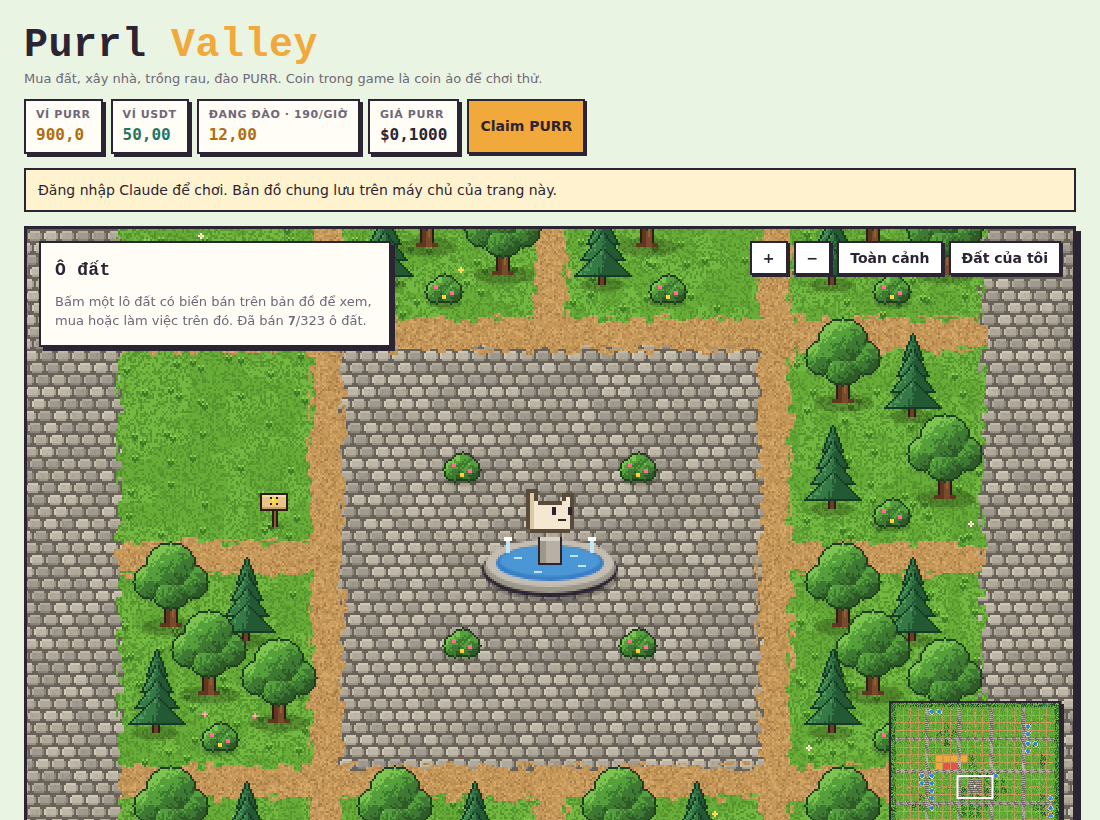
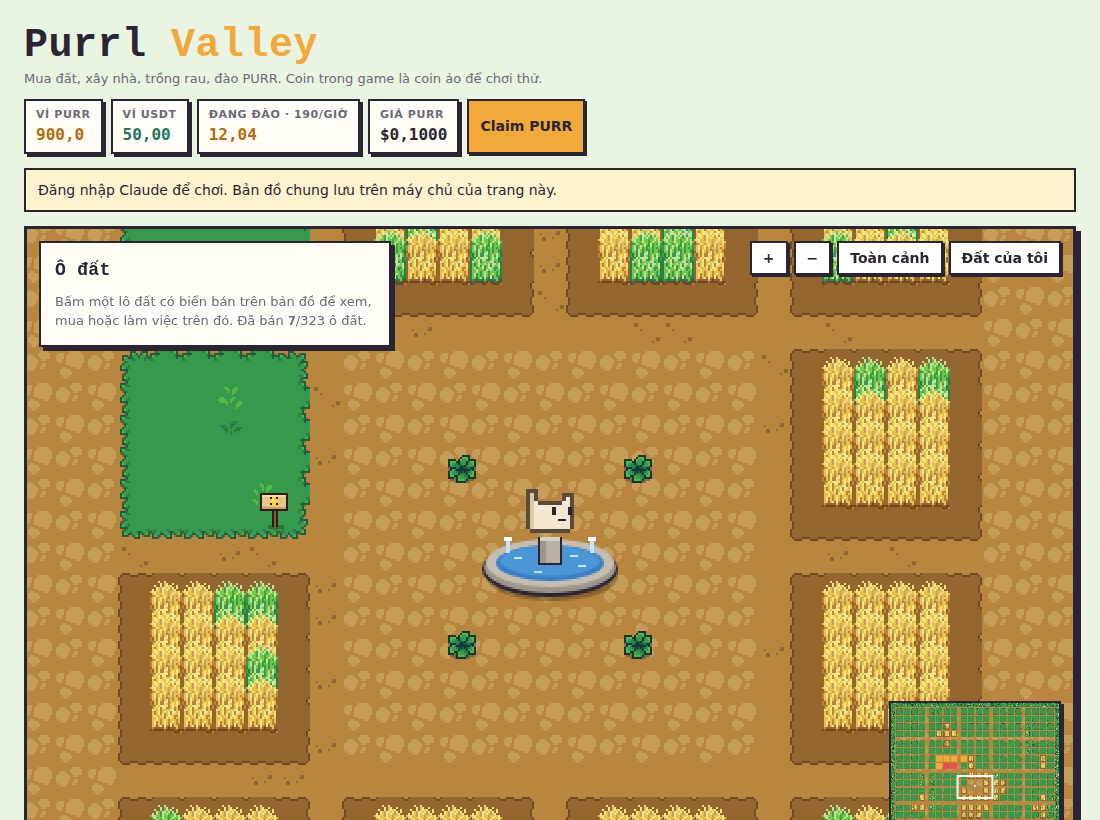
Purrl Valley: use the Pixel Lands - Farm demo art for terrain, fences and crops
Claude-Session: https://claude.ai/code/session_01TUebjeuij8Ma89MtCkRqRD

diff --git a/game/purrl-valley.html b/game/purrl-valley.html
@@ -71,6 +71,8 @@ button:focus-visible, input:focus-visible { outline: 3px solid #3d6fff; outline-
 input[type=number] { font: 500 15px var(--mono); width: 100%; min-width: 0; padding: 7px 9px; border: 2px solid var(--ink); background: #fff; color: var(--ink); }
 .shop { display: grid; grid-template-columns: 1fr auto auto; gap: 6px 8px; align-items: center; font-size: 14px; }
 .shop .p { font-family: var(--mono); color: #b06d0e; }
+.ico { image-rendering: pixelated; width: 24px; height: 24px; vertical-align: -7px; margin-right: 6px; }
+.credit { font-size: 12px; color: var(--muted); margin: 0; }
 .bar { height: 10px; border: 2px solid var(--ink); background: #fff; }
 .bar i { display: block; height: 100%; background: var(--grass); }
 .note { font-size: 13px; color: var(--muted); margin: 0; }
@@ -120,6 +122,7 @@ svg.spark { width: 100%; height: 54px; display: block; }
           <li>PURR làm ra nằm ở mục Đang đào. Cứ 10 phút được claim một lần, phí claim 5%.</li>
           <li>Bán PURR lấy USDT ở chợ, hoặc mua thêm PURR. Giá chạy theo cung cầu của mọi người chơi.</li>
         </ol>
+        <p class="credit">Đồ hoạ nông trại: <a href="https://trislin.itch.io/pixel-lands-farm" target="_blank" rel="noopener">Pixel Lands - Farm</a> của Trislin.</p>
       </section>
     </aside>
   </div>
@@ -135,16 +138,20 @@ const CLAIM_CD = 10 * 60 * 1000, CLAIM_FEE = 0.05;
 const POOL0 = { purr: 100000, usdt: 10000 };         // exchange pool opening reserves, price 0.1
 const SWAP_FEE = 0.003;
 const ITEMS = {
-  wood:    { name: 'Gỗ', price: 8 },
-  stone:   { name: 'Đá', price: 12 },
-  carrot:  { name: 'Hạt cà rốt', price: 10 },
-  tomato:  { name: 'Hạt cà chua', price: 25 },
-  pumpkin: { name: 'Hạt bí ngô', price: 60 },
+  wood:    { name: 'Gỗ', price: 8, icon: [4, 0] },
+  stone:   { name: 'Đá', price: 12, icon: [4, 1] },
+  wheat:   { name: 'Hạt lúa mì', price: 6, icon: [0, 6] },
+  turnip:  { name: 'Hạt củ cải', price: 10, icon: [8, 3] },
+  garlic:  { name: 'Hạt tỏi', price: 18, icon: [8, 7] },
+  corn:    { name: 'Hạt ngô', price: 30, icon: [8, 1] },
+  pumpkin: { name: 'Hạt bí ngô', price: 60, icon: [8, 5] },
 };
-const CROPS = {
-  carrot:  { name: 'Cà rốt',  grow: 2 * 60e3,  yield: 16 },
-  tomato:  { name: 'Cà chua', grow: 5 * 60e3,  yield: 42 },
-  pumpkin: { name: 'Bí ngô',  grow: 15 * 60e3, yield: 105 },
+const CROPS = {   // stages: [col, bottom row, height in tiles] on the objects sheet
+  wheat:   { name: 'Lúa mì', grow: 1 * 60e3,  yield: 9,   icon: [0, 7],  stages: [[1, 7, 1], [2, 7, 1], [3, 7, 1], [5, 7, 2], [7, 7, 2]] },
+  turnip:  { name: 'Củ cải', grow: 2 * 60e3,  yield: 16,  icon: [9, 3],  stages: [[10, 3, 1], [11, 3, 1], [12, 3, 1], [13, 3, 1], [14, 3, 2]] },
+  garlic:  { name: 'Tỏi',    grow: 4 * 60e3,  yield: 30,  icon: [9, 7],  stages: [[10, 7, 1], [11, 7, 1], [12, 7, 1], [13, 7, 1], [14, 7, 2]] },
+  corn:    { name: 'Ngô',    grow: 8 * 60e3,  yield: 52,  icon: [9, 1],  stages: [[10, 1, 1], [11, 1, 1], [12, 1, 1], [14, 1, 2], [15, 1, 2]] },
+  pumpkin: { name: 'Bí ngô', grow: 15 * 60e3, yield: 105, icon: [9, 5],  stages: [[10, 5, 1], [11, 5, 1], [12, 5, 1], [14, 5, 2], [15, 5, 2]] },
 };
 const HOUSE = [null,
   { name: 'Nhà gỗ',   rate: 30,  cost: { wood: 10, stone: 8 } },
@@ -184,7 +191,7 @@ function vnoise(x, y, s, seed) {
   const top = a + (b - a) * sm(fx), bot = c + (d - c) * sm(fx);
   return top + (bot - top) * sm(fy);
 }
-// lot kinds: 0 lawn (for sale), 1 pond, 2 grove, 4 town square
+// lot kinds: 0 lawn (for sale), 1 wild meadow, 2 shared wheat field, 4 town square
 const PK = new Uint8Array(N * N);
 const ter = (i, j) => (i < 0 || j < 0 || i >= N || j >= N ? 2 : PK[j * N + i]);
 const PLAZA = [N / 2 - 1, N / 2];
@@ -204,88 +211,54 @@ function lotOfPx(x, y) {
   const i = f(x), j = f(y); return i >= 0 && j >= 0 ? key(i, j) : null;
 }
 
-// ---- ground tile map: 0 grass, 1 path, 2 cobble, 3 water, 4 sand ----
+// ---- art: "Pixel Lands - Farm" demo by Trislin (trislin.itch.io/pixel-lands-farm) ----
+const SHEET = { ter: new Image(), obj: new Image() };
[2 lines of base64/hex data omitted]
+const sheetsReady = Promise.all(Object.values(SHEET).map((im) => im.decode ? im.decode() : new Promise((ok) => (im.onload = ok))));
+function tile(g, sheet, c, r, x, y, h = 1) { g.drawImage(SHEET[sheet], c * 16, (r - h + 1) * 16, 16, 16 * h, Math.round(x), Math.round(y - (h - 1) * 16), 16, 16 * h); }
+// ground kinds per tile: 0 margin grass, 1 dirt path, 2 stone road, 3 lot
 const GT = new Uint8Array(WT * WT);
 (function () {
   const isMainRoad = (t) => { for (let b = 1; b < N / 4; b++) { const s = lotT0(b * 4) - 3; if (t >= s && t < s + 3) return true; } return false; };
   for (let ty = 0; ty < WT; ty++) for (let tx = 0; tx < WT; tx++) {
     let g = 0;
-    const inside = tx >= M && ty >= M && tx < WT - M && ty < WT - M;
-    if (inside) {
+    if (tx >= M - 1 && ty >= M - 1 && tx <= WT - M && ty <= WT - M) {
+      g = 1;
       if (isMainRoad(tx) || isMainRoad(ty)) g = 2;
-      else {
-        let li = -1, lj = -1;
-        for (let i = 0; i < N; i++) { const a = lotT0(i); if (tx >= a && tx < a + LT) li = i; if (ty >= a && ty < a + LT) lj = i; }
-        if (li < 0 || lj < 0) g = 1;
-      }
+      else { let li = -1, lj = -1; for (let i = 0; i < N; i++) { const a = lotT0(i); if (tx >= a && tx < a + LT) li = i; if (ty >= a && ty < a + LT) lj = i; } if (li >= 0 && lj >= 0) g = 3; }
     }
     GT[ty * WT + tx] = g;
   }
-  // town square paving covers its four lots and the paths between them
   const a = lotT0(PLAZA[0]), b = lotT0(PLAZA[1]) + LT;
   for (let ty = a; ty < b; ty++) for (let tx = a; tx < b; tx++) GT[ty * WT + tx] = 2;
 })();
 const gt = (tx, ty) => (tx < 0 || ty < 0 || tx >= WT || ty >= WT ? 0 : GT[ty * WT + tx]);
-
-const PAL = {
-  grass: [[92, 158, 49], [104, 173, 56], [115, 185, 65], [84, 146, 45]],
-  path: [[199, 154, 91], [185, 140, 80], [212, 169, 106], [168, 125, 71]],
-  cobble: [[176, 168, 152], [190, 182, 166], [160, 154, 142]], mortar: [104, 98, 88],
-  water: [[58, 127, 196], [75, 151, 214], [111, 182, 232]], foam: [191, 230, 251],
-  sand: [[227, 200, 138], [216, 185, 119]],
-};
 const world = document.createElement('canvas'); world.width = WPX; world.height = WPX;
 const wg = world.getContext('2d');
-function pondAt(px, py) {           // distance (in tiles) from a pond lot's centre, or 99
-  const k = lotOfPx(px, py); if (!k) return 99;
-  const [i, j] = k.split('_').map(Number); if (ter(i, j) !== 1) return 99;
-  const [x0, y0] = lotPx(i, j), cx = x0 + LPX / 2, cy = y0 + LPX / 2;
-  const ang = Math.atan2(py - cy, px - cx), wob = 1 + .12 * Math.sin(ang * 3 + i) + .08 * Math.sin(ang * 5 + j);
-  return Math.hypot(px - cx, py - cy) / TS / wob;
+const GRASS = () => [13, 0];
+function grassTile(tx, ty) { const r = hash(tx, ty, 7); return r < .1 ? [12, 0] : r < .17 ? [12, 1] : r < .23 ? [13, 1] : r < .3 ? [12, 2] : [13, 0]; }
+// a 6×6 block of the grass island (lot) or the tilled-soil island (field), edge pieces by position
+function islandTile(lx, ly, field) {
+  const ox = 8, oy = field ? 4 : 0, L = lx === 0, R = lx === LT - 1, T = ly === 0, B = ly === LT - 1;
+  if (T && L) return [ox, oy]; if (T && R) return [ox + 3, oy]; if (B && L) return [ox, oy + 3]; if (B && R) return [ox + 3, oy + 3];
+  if (T) return [ox + 1, oy]; if (B) return [ox + 1, oy + 3]; if (L) return [ox, oy + 1]; if (R) return [ox + 3, oy + 1];
+  return field ? [9, 5] : null;
 }
 function paintGround() {
-  const img = wg.createImageData(WPX, WPX), d = img.data;
-  for (let py = 0; py < WPX; py++) for (let px = 0; px < WPX; px++) {
-    const jx = Math.floor((hash(px >> 2, py >> 2, 5) - .5) * 5), jy = Math.floor((hash(py >> 2, px >> 2, 6) - .5) * 5);
-    let t = gt(Math.floor((px + jx) / TS), Math.floor((py + jy) / TS)), c;
-    const r = hash(px, py, 1);
-    if (t === 0) {
-      const pd = pondAt(px, py);
-      if (pd < 2.35) { const deep = pd < 1.4 ? 0 : pd < 2 ? 1 : 2; c = PAL.water[deep]; if (pd > 2.15 || (r < .02 && pd < 2)) c = PAL.foam; }
-      else if (pd < 2.7) c = PAL.sand[r < .5 ? 0 : 1];
-      else { const n = vnoise(px, py, 9, 2); c = PAL.grass[r < .55 ? (n > .5 ? 2 : 1) : r < .8 ? 0 : 3]; }
-    } else if (t === 1) c = PAL.path[r < .5 ? 0 : r < .75 ? 1 : r < .92 ? 2 : 3];
-    else {
-      // rounded cobbles: offset rows, corners knocked off, lit from the top-left
-      const row = Math.floor(py / 6), off = (row * 5) % 8, col = Math.floor((px + off) / 8), sx = (px + off) % 8, sy = py % 6;
-      const corner = (sx === 1 || sx === 7) && (sy === 1 || sy === 5);
-      const base = PAL.cobble[Math.floor(hash(col, row, 3) * 3)];
-      if (sx === 0 || sy === 0 || corner) c = PAL.mortar;
-      else if (sy === 1 || sx === 1) c = [base[0] + 18, base[1] + 18, base[2] + 16];
-      else if (sy === 5 || sx === 7) c = [base[0] - 22, base[1] - 22, base[2] - 20];
-      else c = r < .12 ? [base[0] - 8, base[1] - 8, base[2] - 8] : base;
-    }
-    const o = (py * WPX + px) * 4; d[o] = c[0]; d[o + 1] = c[1]; d[o + 2] = c[2]; d[o + 3] = 255;
-  }
-  wg.putImageData(img, 0, 0);
-  // grass tufts and wildflowers
   for (let ty = 0; ty < WT; ty++) for (let tx = 0; tx < WT; tx++) {
-    if (gt(tx, ty) !== 0) continue;
-    for (let n = 0; n < 2; n++) {
-      if (hash(tx, ty, 30 + n) < .45) continue;
-      const x = tx * TS + Math.floor(hash(tx, ty, 40 + n) * 13) + 1, y = ty * TS + Math.floor(hash(tx, ty, 50 + n) * 12) + 3;
-      if (pondAt(x, y) < 2.9) continue;
-      wg.fillStyle = '#3f7a26'; wg.fillRect(x, y, 1, 2); wg.fillRect(x + 2, y, 1, 2); wg.fillRect(x + 1, y + 1, 1, 2);
-      wg.fillStyle = '#8fd156'; wg.fillRect(x, y - 1, 1, 1); wg.fillRect(x + 2, y - 1, 1, 1);
-    }
-    if (hash(tx, ty, 60) < .06) {
-      const x = tx * TS + 4 + Math.floor(hash(tx, ty, 61) * 8), y = ty * TS + 4 + Math.floor(hash(tx, ty, 62) * 8), col = ['#ffffff', '#ffe066', '#ff8fc8', '#b8a6ff'][Math.floor(hash(tx, ty, 63) * 4)];
-      if (pondAt(x, y) < 2.9) continue;
-      wg.fillStyle = col; wg.fillRect(x - 1, y, 3, 1); wg.fillRect(x, y - 1, 1, 3); wg.fillStyle = '#ffd23f'; wg.fillRect(x, y, 1, 1);
-    }
+    const x = tx * TS, y = ty * TS, k = gt(tx, ty);
+    if (k === 0) { const [c, r] = grassTile(tx, ty); tile(wg, 'ter', c, r, x, y); continue; }
+    if (k === 1) { const h = hash(tx, ty, 3); tile(wg, 'ter', h < .12 ? 12 : h < .2 ? 13 : 13, h < .2 ? 4 : 2, x, y); continue; }
+    if (k === 2) { tile(wg, 'ter', 13, 2, x, y); tile(wg, 'ter', (tx + ty) % 2 ? 12 : 13, 3, x, y); continue; }
+    // lot tile: find which lot and where inside it
+    const key0 = lotOfPx(x + 1, y + 1); if (!key0) continue;
+    const [i, j] = key0.split('_').map(Number), lx = tx - lotT0(i), ly = ty - lotT0(j), field = ter(i, j) === 2;
+    tile(wg, 'ter', 13, 2, x, y);
+    const e = islandTile(lx, ly, field);
+    if (e) tile(wg, 'ter', e[0], e[1], x, y); else { const [c, r] = grassTile(tx, ty); tile(wg, 'ter', c, r, x, y); }
   }
 }
-
 // ---- sprites ----
 function sprite(w, h, fn) {
   const c = document.createElement('canvas'); c.width = w; c.height = h; const g = c.getContext('2d');
@@ -307,44 +280,12 @@ function canopy(g, R, circles, cols, outline, seed) {
 }
 const SPR = {};
 function makeSprites() {
-  SPR.oak = sprite(40, 50, (g, R) => {
-    g.fillStyle = 'rgba(20,40,10,.28)'; g.beginPath(); g.ellipse(21, 45, 15, 4.5, 0, 0, 7); g.fill();
-    R(17, 30, 7, 15, '#2b1d14'); R(18, 30, 5, 15, '#7a4a2a'); R(18, 30, 2, 15, '#5e381f'); R(21, 34, 1, 6, '#94603a'); R(15, 43, 3, 2, '#5e381f'); R(23, 43, 3, 2, '#5e381f');
-    canopy(g, R, [[20, 15, 13], [10, 22, 9], [30, 22, 9], [20, 26, 10]], ['#2d5a27', '#3e7a31', '#56a03c', '#7cc44f'], '#1e3d1c', 7);
-  });
-  SPR.pine = sprite(30, 48, (g, R) => {
-    g.fillStyle = 'rgba(20,40,10,.28)'; g.beginPath(); g.ellipse(15, 44, 11, 3.5, 0, 0, 7); g.fill();
-    R(13, 36, 4, 8, '#2b1d14'); R(14, 36, 2, 8, '#6b4026');
-    for (let tier = 0; tier < 4; tier++) {
-      const top = 2 + tier * 8, hgt = 14, half = 5 + tier * 3;
-      for (let y = 0; y < hgt; y++) { const w = Math.round(half * (y + 1) / hgt); for (let x = -w; x <= w; x++) { const edge = x === -w || x === w || y === hgt - 1; const l = -x / (w + 1) * .7 - y / hgt * .4 + (hash(x, y + tier * 20, 9) - .5) * .4; R(15 + x, top + y, edge ? '#173a24' : l > .25 ? '#4f9a5a' : l > -.2 ? '#357a44' : '#245a33'); } }
-    }
-  });
-  SPR.bush = sprite(22, 18, (g, R) => {
-    g.fillStyle = 'rgba(20,40,10,.25)'; g.beginPath(); g.ellipse(11, 15, 9, 2.5, 0, 0, 7); g.fill();
-    canopy(g, R, [[7, 9, 6], [14, 9, 6], [11, 6, 6]], ['#2d5a27', '#3e7a31', '#56a03c', '#7cc44f'], '#1e3d1c', 3);
-    R(6, 6, 2, 2, '#ff6f8f'); R(14, 9, 2, 2, '#ff6f8f'); R(10, 11, 2, 2, '#ffd23f');
-  });
   SPR.sign = sprite(16, 20, (g, R) => {
     g.fillStyle = 'rgba(0,0,0,.25)'; g.fillRect(5, 18, 8, 2);
     R(7, 8, 3, 11, '#2b1d14'); R(8, 8, 1, 11, '#8a5a32');
     R(1, 2, 14, 9, '#2b1d14'); R(2, 3, 12, 7, '#e6c48a'); R(2, 3, 12, 1, '#f4dcaa'); R(2, 9, 12, 1, '#c9a26b');
     R(6, 4, 4, 4, '#2b1d14'); R(7, 4, 2, 4, '#ffd23f'); R(6, 5, 4, 2, '#ffd23f'); R(7, 5, 1, 1, '#fff2a8');
   });
-  SPR.soil = sprite(16, 16, (g, R) => {
-    R(0, 0, 16, 16, '#6b4426');
-    for (let y = 0; y < 16; y += 4) { R(0, y, 16, 1, '#53331c'); R(0, y + 1, 16, 1, '#7d5230'); }
-    for (let n = 0; n < 6; n++) R(Math.floor(hash(n, 1) * 15), Math.floor(hash(n, 2) * 15), 1, 1, '#8a5e38');
-  });
-  const leaf = (R, x, y, c1, c2) => { R(x, y, 2, 1, c1); R(x + 1, y + 1, 2, 1, c2); };
-  SPR.crop = {
-    seed: sprite(16, 16, (g, R) => { [[4, 6], [10, 9], [6, 12], [11, 4]].forEach(([x, y]) => { R(x, y, 2, 1, '#3a2414'); R(x, y - 1, 2, 1, '#d8b98a'); }); }),
-    sprout: sprite(16, 16, (g, R) => { R(7, 9, 1, 4, '#3f7a26'); leaf(R, 5, 8, '#56a03c', '#3f7a26'); R(8, 7, 2, 1, '#7cc44f'); R(9, 8, 2, 1, '#56a03c'); }),
-    grow: sprite(16, 16, (g, R) => { R(7, 6, 2, 8, '#3f7a26'); R(4, 6, 3, 2, '#56a03c'); R(9, 5, 3, 2, '#7cc44f'); R(3, 9, 4, 2, '#3e7a31'); R(9, 9, 4, 2, '#56a03c'); R(6, 3, 3, 3, '#7cc44f'); R(7, 3, 1, 1, '#a6e07c'); }),
-    carrot: sprite(16, 16, (g, R) => { R(5, 10, 6, 4, '#2b1d14'); R(6, 10, 4, 3, '#ff8a1f'); R(6, 10, 2, 1, '#ffb05a'); R(7, 13, 2, 1, '#d8661a'); R(5, 4, 2, 6, '#3f7a26'); R(9, 4, 2, 6, '#56a03c'); R(7, 2, 2, 8, '#7cc44f'); }),
-    tomato: sprite(16, 16, (g, R) => { R(7, 1, 2, 14, '#8a5a32'); R(4, 4, 8, 7, '#3e7a31'); R(5, 5, 6, 4, '#56a03c'); [[4, 8], [10, 6], [7, 11]].forEach(([x, y]) => { R(x - 1, y - 1, 4, 4, '#7a1424'); R(x, y, 2, 2, '#e8344f'); R(x, y, 1, 1, '#ff9aa8'); }); }),
-    pumpkin: sprite(16, 16, (g, R) => { g.fillStyle = 'rgba(0,0,0,.25)'; g.fillRect(3, 13, 11, 2); R(2, 5, 12, 9, '#6e2e0e'); R(3, 6, 10, 7, '#f28a1f'); R(5, 6, 1, 7, '#d8661a'); R(10, 6, 1, 7, '#d8661a'); R(4, 7, 2, 2, '#ffb05a'); R(7, 3, 2, 3, '#3f7a26'); R(9, 3, 3, 1, '#56a03c'); }),
-  };
   // fountain with the Purrl statue
   SPR.fountain = sprite(72, 64, (g, R) => {
     g.fillStyle = 'rgba(0,0,0,.25)'; g.beginPath(); g.ellipse(37, 50, 33, 12, 0, 0, 7); g.fill();
@@ -408,25 +349,27 @@ function houseSprite(level, wall, roof) {
 const mailCache = {};
 const mailbox = (col) => mailCache[col] || (mailCache[col] = sprite(10, 16, (g, R) => { g.fillStyle = 'rgba(0,0,0,.25)'; g.fillRect(2, 14, 7, 2); R(4, 6, 2, 9, '#5e381f'); R(0, 1, 10, 7, '#2b1d14'); R(1, 2, 8, 5, col); R(1, 2, 8, 1, 'rgba(255,255,255,.4)'); R(8, 0, 1, 4, '#e8344f'); R(8, 0, 2, 2, '#e8344f'); }));
 
-// ---- static scenery: woods around the edge, groves, fountain ----
+// ---- static scenery: bushes and tall grass around the edge, meadows, the shared wheat fields, the square ----
 function paintScenery() {
-  const items = [];
+  const items = [];                                    // [draw(y-sorted), bottom y]
+  const obj = (c, r, x, y, h = 1) => items.push([() => tile(wg, 'obj', c, r, x, y, h), y + 16]);
   for (let ty = 0; ty < WT; ty++) for (let tx = 0; tx < WT; tx++) {
-    const edge = tx < M - 1 || ty < M - 1 || tx >= WT - M + 1 || ty >= WT - M + 1;
-    if (edge && (tx + ty) % 2 === 0 && hash(tx, ty, 70) < .8) items.push([hash(tx, ty, 71) < .4 ? 'pine' : 'oak', tx * TS - 12 + hash(tx, ty, 72) * 8, ty * TS - 30]);
+    if (gt(tx, ty) !== 0) continue;
+    const h = hash(tx, ty, 11), x = tx * TS, y = ty * TS;
+    if (h < .34) obj(h < .17 ? 5 : 6, 0, x, y); else if (h < .44) obj(4, 7, x, y, 2); else if (h < .52) obj(h < .48 ? 2 : 3, 7, x, y); else if (h < .55) obj(4, 1, x, y);
   }
   for (let j = 0; j < N; j++) for (let i = 0; i < N; i++) {
-    const [x0, y0] = lotPx(i, j), k = ter(i, j);
-    if (k === 2) {
-      [[8, 6], [52, 14], [26, 40], [62, 54], [6, 60]].forEach(([a, b], n) => { if (hash(i, j, n) < .85) items.push([n % 3 === 1 ? 'pine' : 'oak', x0 + a + hash(i, n, 3) * 6 - 6, y0 + b - 24]); });
-      items.push(['bush', x0 + 40, y0 + 74]);
-    } else if (k === 1) { items.push(['bush', x0 + 4, y0 + 74]); items.push(['bush', x0 + 70, y0 + 6]); }
+    const k = ter(i, j), tx0 = lotT0(i), ty0 = lotT0(j);
+    if (k === 1) for (let ly = 1; ly < LT - 1; ly++) for (let lx = 1; lx < LT - 1; lx++) {
+      const h = hash(tx0 + lx, ty0 + ly, 13), x = (tx0 + lx) * TS, y = (ty0 + ly) * TS;
+      if (h < .22) obj(h < .11 ? 5 : 6, 0, x, y); else if (h < .42) obj(h < .32 ? 4 : 5, 7, x, y, 2); else if (h < .55) obj(h < .48 ? 2 : 3, 7, x, y); else if (h < .6) obj(4, 1, x, y);
+    }
+    if (k === 2) for (let ly = 1; ly < LT - 1; ly++) for (let lx = 1; lx < LT - 1; lx++) obj(hash(i, j, lx + ly * 7) < .8 ? 7 : 6, 7, (tx0 + lx) * TS, (ty0 + ly) * TS, 2);
   }
   const pc = lotPx(PLAZA[0], PLAZA[0])[0] + LPX + TS / 2;
-  items.push(['fountain', pc - 36, pc - 40]);
-  [[-44, -44], [44, -44], [-44, 44], [44, 44]].forEach(([a, b]) => items.push(['bush', pc + a - 11, pc + b - 9]));
-  items.sort((a, b) => a[2] + SPR[a[0]].height - (b[2] + SPR[b[0]].height));
-  for (const [s, x, y] of items) wg.drawImage(SPR[s], Math.round(x), Math.round(y));
+  items.push([() => wg.drawImage(SPR.fountain, pc - 36, pc - 40), pc + 24]);
+  [[-44, -44], [44, -44], [-44, 44], [44, 44]].forEach(([a, b]) => obj(5, 0, pc + a - 8, pc + b - 8));
+  items.sort((a, b) => a[1] - b[1]); items.forEach(([f]) => f());
 }
 
 // ---- camera and frame ----
@@ -445,35 +388,29 @@ function zoomAt(f, sx, sy) { const [a, b] = toWorld(sx, sy); cam.z *= f; clampCa
 let fly = null;
 function flyTo(x, y, z) { fly = { t0: performance.now(), x0: cam.x, y0: cam.y, z0: cam.z, x, y, z: z || cam.z }; }
 function drawFence(g, x0, y0) {
-  const post = (x, y) => { g.fillStyle = 'rgba(0,0,0,.22)'; g.fillRect(x + 1, y + 1, 4, 3); g.fillStyle = '#2b1d14'; g.fillRect(x, y - 9, 4, 11); g.fillStyle = '#a0703c'; g.fillRect(x + 1, y - 8, 2, 9); g.fillStyle = '#c99a5e'; g.fillRect(x + 1, y - 8, 2, 1); };
-  const railH = (xa, xb, y) => { g.fillStyle = '#2b1d14'; g.fillRect(xa, y - 7, xb - xa, 4); g.fillRect(xa, y - 3, xb - xa, 0); g.fillStyle = '#b9844a'; g.fillRect(xa, y - 6, xb - xa, 1); g.fillStyle = '#8a5a32'; g.fillRect(xa, y - 5, xb - xa, 1); };
-  const L = x0 + 1, Rr = x0 + LPX - 5, T = y0 + 9, B = y0 + LPX - 2;
-  railH(L + 2, Rr + 2, T);
-  for (let x = L; x <= Rr; x += TS) post(x, T);
-  for (let y = T + TS; y < B; y += TS) { g.fillStyle = '#2b1d14'; g.fillRect(L + 1, y - 16, 2, 16); g.fillRect(Rr + 1, y - 16, 2, 16); post(L, y); post(Rr, y); }
-  g.fillStyle = '#2b1d14'; g.fillRect(L + 1, B - 16, 2, 16); g.fillRect(Rr + 1, B - 16, 2, 16);
-  const gate0 = x0 + LPX / 2 - 12, gate1 = x0 + LPX / 2 + 12;
-  railH(L + 2, gate0, B); railH(gate1, Rr + 2, B);
-  for (let x = L; x <= Rr; x += TS) if (x + 4 <= gate0 || x >= gate1) post(x, B);
-  post(gate0 - 4, B); post(gate1, B);
+  const R = x0 + (LT - 1) * TS, B = y0 + (LT - 1) * TS;
+  for (let n = 1; n < LT - 1; n++) { tile(g, 'obj', 3, 1, x0, y0 + n * TS); tile(g, 'obj', 3, 1, R, y0 + n * TS); }
+  for (let n = 0; n < LT; n++) tile(g, 'obj', n === 0 ? 0 : n === LT - 1 ? 2 : 1, 0, x0 + n * TS, y0);
+  const gate = [2, 3];                                                                  // opening at the front
+  for (let n = 0; n < LT; n++) if (!gate.includes(n)) tile(g, 'obj', n === 0 || n === 4 ? 0 : n === 1 || n === LT - 1 ? 2 : 1, 3, x0 + n * TS, B);
 }
 function drawLot(g, k, now) {
   const [i, j] = k.split('_').map(Number), [x0, y0] = lotPx(i, j), l = land[k];
   if (!l) { g.drawImage(SPR.sign, x0 + LPX - 26, y0 + LPX - 26); return; }
   const f = farms[l.owner], p = f && f.plots && f.plots[k];
-  // stepping stones from the gate
-  for (let y = y0 + LPX - 30; y < y0 + LPX - 2; y += 9) { g.fillStyle = '#2b1d14'; g.fillRect(x0 + LPX / 2 - 6, y, 12, 6); g.fillStyle = '#b8b0a4'; g.fillRect(x0 + LPX / 2 - 5, y + 1, 10, 4); g.fillStyle = '#d8d2c6'; g.fillRect(x0 + LPX / 2 - 5, y + 1, 10, 1); }
   if (p && p.kind === 'crop') {
-    const c = CROPS[p.crop], t = (now - p.plantedAt) / c.grow, st = t >= 1 ? p.crop : t > .6 ? 'grow' : t > .25 ? 'sprout' : 'seed';
-    g.fillStyle = '#2b1d14'; g.fillRect(x0 + 15, y0 + 15, 66, 50);
-    for (let a = 0; a < 4; a++) for (let b = 0; b < 3; b++) { g.drawImage(SPR.soil, x0 + 16 + a * 16, y0 + 16 + b * 16); g.drawImage(SPR.crop[st], x0 + 16 + a * 16, y0 + 14 + b * 16); }
+    for (let ly = 0; ly < LT; ly++) for (let lx = 0; lx < LT; lx++) { const e = islandTile(lx, ly, true); tile(g, 'ter', 13, 2, x0 + lx * TS, y0 + ly * TS); tile(g, 'ter', e[0], e[1], x0 + lx * TS, y0 + ly * TS); }
+    const c = CROPS[p.crop], t = (now - p.plantedAt) / c.grow, st = c.stages[t >= 1 ? 4 : t > .7 ? 3 : t > .45 ? 2 : t > .2 ? 1 : 0];
+    for (let ly = 1; ly < LT - 1; ly++) for (let lx = 1; lx < LT - 1; lx++) tile(g, 'obj', st[0], st[1], x0 + lx * TS, y0 + ly * TS, st[2]);
+  } else {
+    tile(g, 'obj', 6, 2, x0 + 2 * TS, y0 + 4 * TS); tile(g, 'obj', 7, 2, x0 + 3 * TS, y0 + 4 * TS);       // stepping stones to the gate
   }
   if (p && p.kind === 'house') {
     const s = houseSprite(p.level, WALLS[Math.floor(hash(i, j, 1) * 5)], ROOFC[Math.floor(hash(j, i, 2) * 5)]);
     g.drawImage(s, Math.round(x0 + LPX / 2 - s.width / 2), y0 + LPX - 30 - s.height + 8);
   }
   drawFence(g, x0, y0);
-  g.drawImage(mailbox(l.owner === me ? '#f2a93b' : (colors[l.owner] || '#8a7a9a')), x0 + LPX / 2 + 16, y0 + LPX - 16);
+  g.drawImage(mailbox(l.owner === me ? '#f2a93b' : (colors[l.owner] || '#8a7a9a')), x0 + LPX / 2 + 18, y0 + LPX - 18);
 }
 function lotRectScreen(k) { const [i, j] = k.split('_').map(Number), [x0, y0] = lotPx(i, j); return [(x0 - cam.x) * cam.z + vw / 2, (y0 - cam.y) * cam.z + vh / 2, LPX * cam.z]; }
 function outline(k, col, w) { const [x, y, s] = lotRectScreen(k); cx.strokeStyle = col; cx.lineWidth = w; cx.strokeRect(x + w / 2, y + w / 2, s - w, s - w); }
@@ -566,7 +503,8 @@ $('zhome').onclick = () => {
 function redrawLand() { drawMini(); }
 function redrawCrops() {}
 function draw() { drawMini(); }
-makeSprites(); paintGround(); paintScenery();
+makeSprites();
+sheetsReady.then(() => { paintGround(); paintScenery(); drawMini(); renderShop(); renderPlot(); });
 new ResizeObserver(resize).observe(cv);
 resize(); cam.z = 3; clampCam(); drawMini(); requestAnimationFrame(frame);
 
@@ -595,7 +533,7 @@ function renderPlot() {
   const [x, y] = sel.split('_').map(Number), l = land[sel];
   let h = `<h2>Ô đất ${x + 1}·${y + 1}</h2>`;
   if (!l && !buyable(x, y)) {
-    const T_NAMES = { 1: 'Ao nước', 2: 'Lùm cây', 4: 'Quảng trường' };
+    const T_NAMES = { 1: 'Bãi cỏ dại', 2: 'Ruộng lúa chung', 4: 'Quảng trường' };
     el.innerHTML = h + `<div class="kv"><span>Địa hình</span><b>${T_NAMES[ter(x, y)]}</b></div><p class="note">Khu vực chung, không bán. Chọn một lô có biển bán nhà.</p>`; return;
   }
   if (!l) {
@@ -614,7 +552,7 @@ function renderPlot() {
       const c = HOUSE[1].cost, inv = f.inv || {};
       h += `<button data-act="build" ${busy || !hasCost(f, c) ? 'disabled' : ''}>Xây ${HOUSE[1].name} (${costText(c)})</button>
         <p class="note">Nhà đào ${HOUSE[1].rate} PURR/giờ. Hoặc trồng rau:</p><div class="row">` +
-        Object.entries(CROPS).map(([k, cr]) => `<button data-act="plant" data-crop="${k}" ${busy || !(inv[k] > 0) ? 'disabled' : ''}>${cr.name} (${inv[k] || 0})</button>`).join('') + `</div>`;
+        Object.entries(CROPS).map(([k, cr]) => `<button data-act="plant" data-crop="${k}" ${busy || !(inv[k] > 0) ? 'disabled' : ''}>${icon(cr.icon)}${cr.name} (${inv[k] || 0})</button>`).join('') + `</div>`;
     }
   } else if (p.kind === 'house') {
     const H = HOUSE[p.level];
@@ -629,12 +567,18 @@ function renderPlot() {
   }
   el.innerHTML = h;
 }
+const iconCache = {};
+function icon([c, r]) {
+  const k = c + '_' + r;
+  if (!iconCache[k]) { const cv0 = document.createElement('canvas'); cv0.width = cv0.height = 16; cv0.getContext('2d').drawImage(SHEET.obj, c * 16, r * 16, 16, 16, 0, 0, 16, 16); iconCache[k] = cv0.toDataURL(); }
+  return `<img class="ico" src="${iconCache[k]}" alt="" width="24" height="24">`;
+}
 function renderShop() {
   const f = myFarm();
   let h = `<h2>Cửa hàng</h2>`;
   if (f) h += invHtml(f);
   h += `<div class="shop">` + Object.entries(ITEMS).map(([k, it]) =>
-    `<span>${esc(it.name)} <span class="p">${it.price}</span></span>
+    `<span class="item">${icon(it.icon)}${esc(it.name)} <span class="p">${it.price}</span></span>
      <button data-act="buy" data-item="${k}" data-qty="1" ${!f || busy || f.purr < it.price ? 'disabled' : ''}>+1</button>
      <button data-act="buy" data-item="${k}" data-qty="5" ${!f || busy || f.purr < it.price * 5 ? 'disabled' : ''}>+5</button>`).join('') + `</div>
     <p class="note">Giá tính bằng PURR. PURR tiêu ở cửa hàng bị đốt khỏi lưu thông.</p>`;
